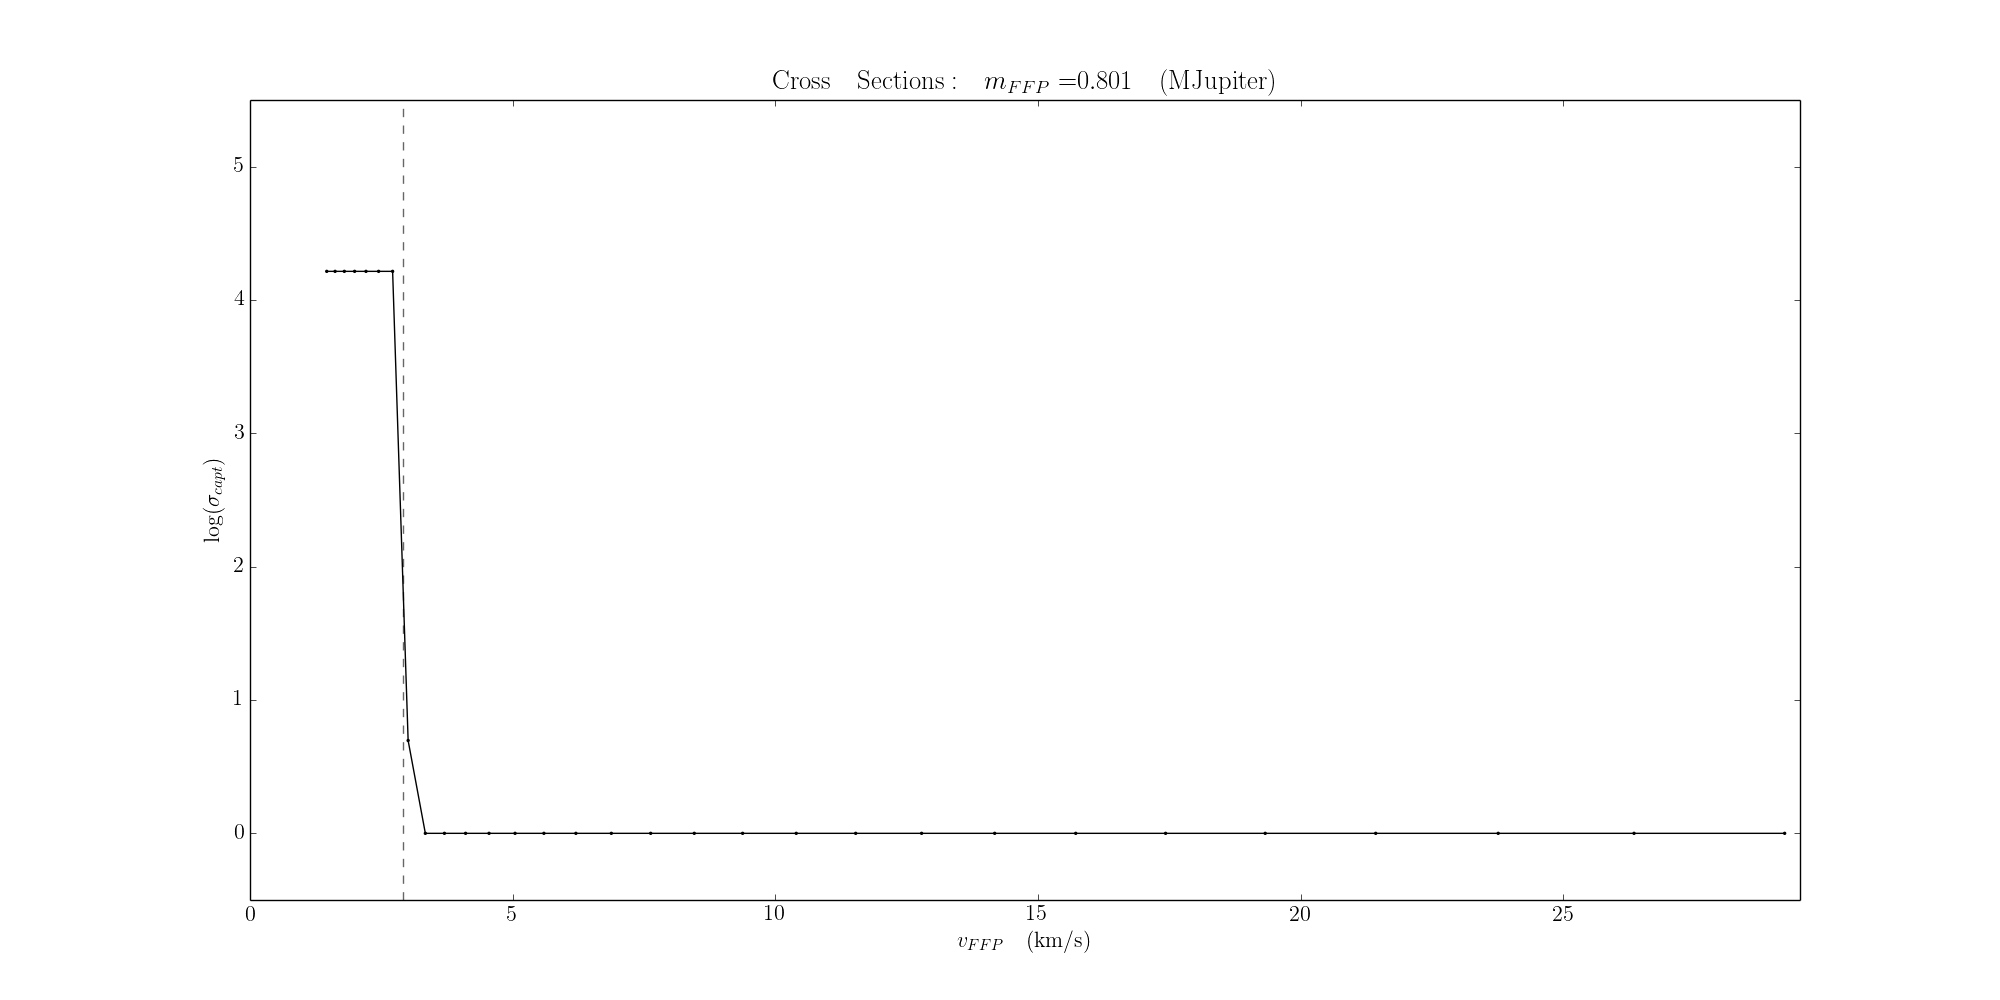
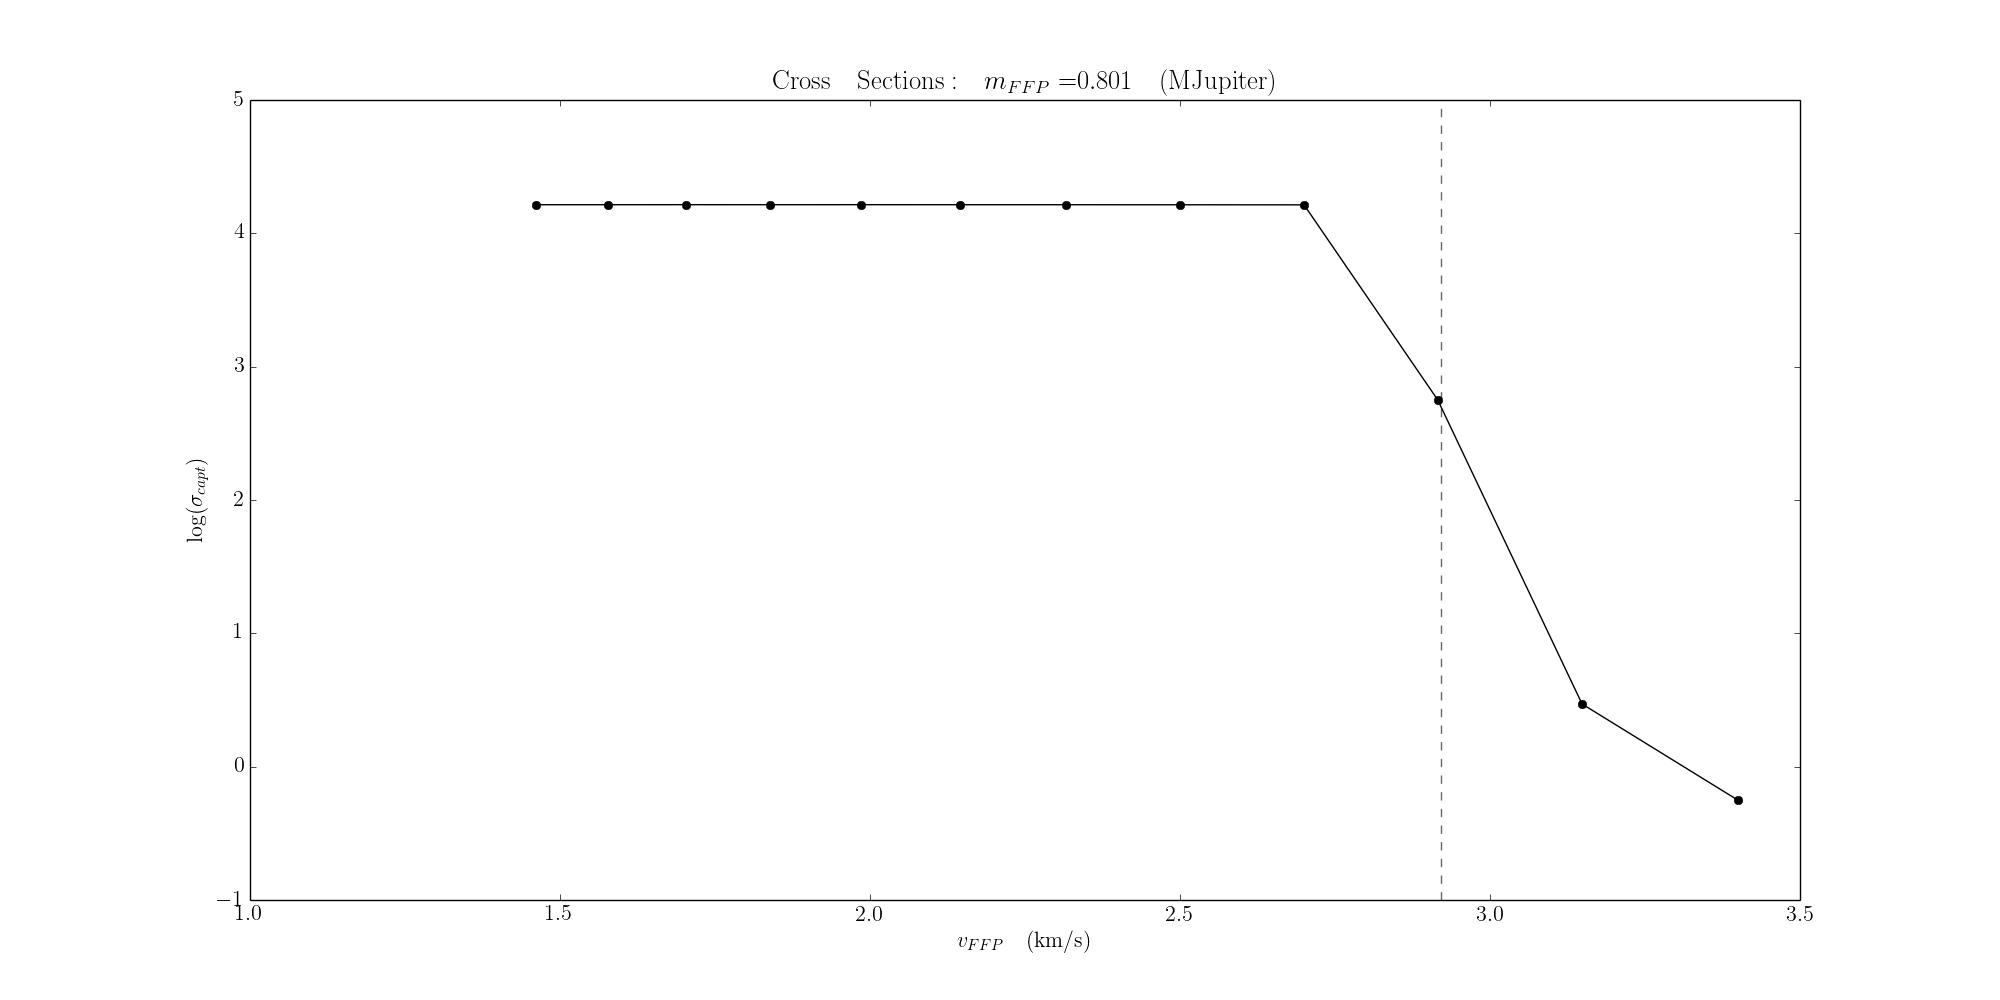
before imrpoving the plots. The new version narrows the space of v because the cross sections were already going to zero in less than half of the space

Changed region(s): [[0.093, 0.465, 0.124, 0.527]]

diff --git a/CrossSections/cross_sections.py b/CrossSections/cross_sections.py
@@ -68,6 +68,7 @@ def plot_cross_sections_vs_velocity(m_ffp, vs_ffp_captured, bs_ffp_captured, vs_
     
     x_axis = []
     y_axis = []
+    y_axis_errors = []
     
     unique_velocities, number_unique_velocities = np.unique(vs_ffp_total, return_counts=True)
     
@@ -82,31 +83,41 @@ def plot_cross_sections_vs_velocity(m_ffp, vs_ffp_captured, bs_ffp_captured, vs_
         else:
             b_ffp_captured_for_v_max = max(bs_ffp_captured_for_v)
         
-        cs = calculate_cross_section(b_ffp_captured_for_v_max, len(indices_captured[0]), len(indices_total[0]))
+        number_captures = len(indices_captured[0])      
+        number_total = len(indices_total[0])
+        cs = calculate_cross_section(b_ffp_captured_for_v_max, number_captures, number_total)
         
         if(cs != 0.0):
             log_cs = np.log10(cs)
+            log_cs_error = np.log10(cs/np.sqrt(number_captures))
         else:
-            log_cs = 0.0
+            log_cs = -float('Inf') #low negative number
+            log_cs_error = 0.0
             
         x_axis.append(uniq_vel)
         y_axis.append(log_cs)
+        y_axis_errors.append(log_cs_error)
         
-    plt.figure(figsize=(20,10))    
+    figure = plt.figure(figsize=(20,10))    
+    fig = figure.add_subplot(1,1,1)
     
-    plt.plot(x_axis, y_axis, c='black')
-    plt.scatter(x_axis, y_axis, c='black',s=2)
-    plt.axvline(unique_velocities[0]*2, 0.0, max(y_axis), c='black', linestyle='--', alpha=0.6)
-    plt.xlim(0,unique_velocities[-1]*1.01)
+    fig.plot(x_axis, y_axis, c='black', marker='o')
+    #fig.errorbar(x_axis, y_axis, xerr=None, yerr=y_axis_errors, ecolor='black')
+    fig.axvline(unique_velocities[0]*2, 0.0, 6.0, c='black', linestyle='--', alpha=0.6)
+    
+    #fig.set_xlim(unique_velocities[0]*0.9, unique_velocities[-1]*1.01)
+    #fig.set_ylim(-0.5, 5.5)
     
     m_ffp_string = r"${0:.3f}$".format(m_ffp)
     
-    plt.title('$\mathrm{Cross\quad Sections:}\quad m_{FFP}=$'+m_ffp_string+'$\mathrm{\quad (MJupiter)}$')    
-    plt.xlabel('$v_{FFP}\quad \mathrm{(km/s)}$')    
-    plt.ylabel('$\log(\sigma_{capt})$')    
+    fig.set_title('$\mathrm{Cross\quad Sections:}\quad m_{FFP}=$'+m_ffp_string+'$\mathrm{\quad (MJupiter)}$')    
+    fig.set_xlabel('$v_{FFP}\quad \mathrm{(km/s)}$')    
+    fig.set_ylabel('$\log(\sigma_{capt})$')    
     
-    plt.savefig('./plots/cross_sections_'+str(m_ffp)+'.png')
-    plt.close()
+    figure.savefig('./plots/cross_sections_'+str(m_ffp)+'.png')
+    plt.close(figure)
+    
+    return x_axis, y_axis, y_axis_errors
 
 if __name__ in ('__main__', '__plot__'):
     
@@ -119,15 +130,20 @@ if __name__ in ('__main__', '__plot__'):
     
     ms_ffp_par_uniq = np.unique(ms_ffp_par)
     
-    print ms_ffp_par_uniq
-    
     print 'Stables: ', len(ms_ffp), '/', len(ms_ffp_par)
     
     #Plots
     create_plots_folders()
     
     #Make statistics plots
-    for m_ffp in ms_ffp_par_uniq:
+    figure = plt.figure(figsize=(25,15))  
+    fig = figure.add_subplot(1,1,1)
+    markers = [".",">","v","d","s","D","p","H","*","o"]
+    colors=['r','b','g','y','m','c','k','r','b','g']
+    
+    for j in range(len(ms_ffp_par_uniq)):
+        
+        m_ffp = ms_ffp_par_uniq[j]
         
         vs_ffp_captured = np.array(vs_ffp)[np.where(ms_ffp == m_ffp)]
         bs_ffp_captured = np.array(bs_ffp)[np.where(ms_ffp == m_ffp)]
@@ -135,7 +151,21 @@ if __name__ in ('__main__', '__plot__'):
         vs_ffp_total = np.array(vs_ffp_par)[np.where(ms_ffp_par == m_ffp)]
         bs_ffp_total = np.array(bs_ffp_par)[np.where(ms_ffp_par == m_ffp)]
         
-        plot_cross_sections_vs_velocity(m_ffp, vs_ffp_captured, bs_ffp_captured, vs_ffp_total, bs_ffp_total)
+        x_axis, y_axis, y_axis_errors = plot_cross_sections_vs_velocity(m_ffp, vs_ffp_captured, bs_ffp_captured, vs_ffp_total, bs_ffp_total)
+        
+        m_ffp_string = r"${0:.3f}$".format(m_ffp)
+        fig.plot(x_axis, y_axis, c=colors[j], marker=markers[j], label='$m_{FFP}=$'+m_ffp_string+' $\mathrm{(MJupiter)}$')
+        #fig.errorbar(x_axis, y_axis, xerr=None, yerr=y_axis_errors, ecolor=colors[j])
+    
+    fig.axvline(x_axis[0]*2, 0.0, 5.5, c='black', linestyle='--', alpha=0.6)
+#    fig.set_xlim(x_axis[0]*0.9, x_axis[-1]*1.01)
+#    fig.set_ylim(-0.5, 5.5)
+    fig.set_title('$\mathrm{Cross\quad Sections}$')    
+    fig.set_xlabel('$v_{FFP}\quad \mathrm{(km/s)}$')    
+    fig.set_ylabel('$\log(\sigma_{capt})$')    
+    fig.legend()
+    figure.savefig('./plots/cross_sections.png')
+    plt.close(figure)
 
 
 

diff --git a/CrossSections/run.py b/CrossSections/run.py
@@ -7,7 +7,7 @@ def stop_code():
     import sys
     sys.exit()
     
-def get_critical_velocity(m0, m_ffp, m_bp, r_inf):
+def get_critical_velocity(m0, m_bp, r_inf):
 
     MJupiter_in_kg = 1.89813e27 #kg
     MSun_in_kg = 1.988435e30 #kg
@@ -55,8 +55,7 @@ def permute(m_ffp):
 
     #Numbers of each parameter
     n_vs_ffp = 40
-    n_bs_ffp = 4000
-    #this should last 3.4 days
+    n_bs_ffp = 500
     
     total_permutations = n_vs_ffp*n_bs_ffp
     
@@ -64,8 +63,8 @@ def permute(m_ffp):
     np.random.seed(12)
 
     #Variable parameters
-    critical_velocity = get_critical_velocity(m0, m_ffp, m_bp, n_r0_in_rinf*a_bp) #km/s
-    vs_ffp_log = 10**(np.linspace(np.log10(0.5*critical_velocity),np.log10(10.0*critical_velocity),n_vs_ffp)) #km/s
+    critical_velocity = get_critical_velocity(m0, m_bp, n_r0_in_rinf*a_bp) #km/s
+    vs_ffp_log = 10**(np.linspace(np.log10(0.8*critical_velocity), np.log10(1.5*critical_velocity), n_vs_ffp)) #km/s
 
     #Filenames to write info
     m_ffp_filename = ('m%.4e')%(m_ffp)

diff --git a/CrossSections/run_several.py b/CrossSections/run_several.py
@@ -23,12 +23,7 @@ if __name__ in ('__main__', '__plot__'):
     
     ms_ffp = np.concatenate((ms_ffp_1[:5],ms_ffp_2))
     
-    print ms_ffp
-    
     os.system('mkdir logs/')
 
     for m_ffp in ms_ffp:
         os.system('(amuse.sh run.py '+str(m_ffp)+' >> logs/log'+str(m_ffp)+'.txt 2>&1 &)')
-
-#    m_ffp = 1.0
-#    os.system('(amuse.sh run.py '+str(m_ffp)+' >> logs/log'+str(m_ffp)+'.txt 2>&1 &)')
